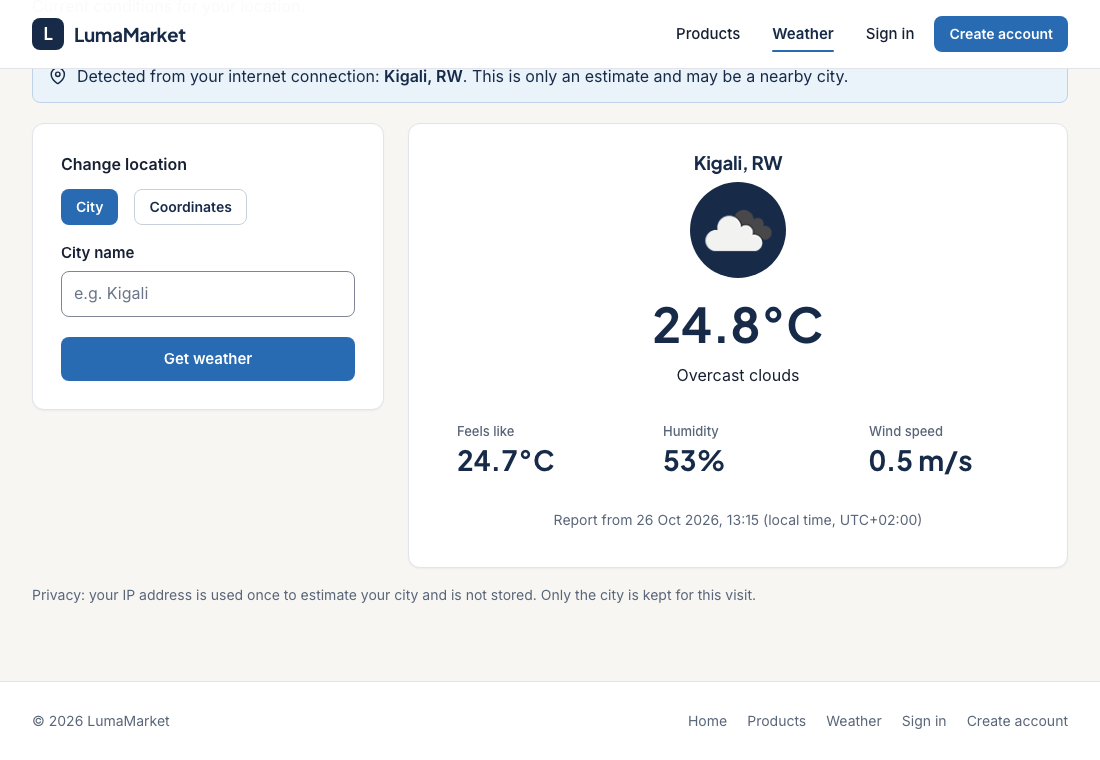
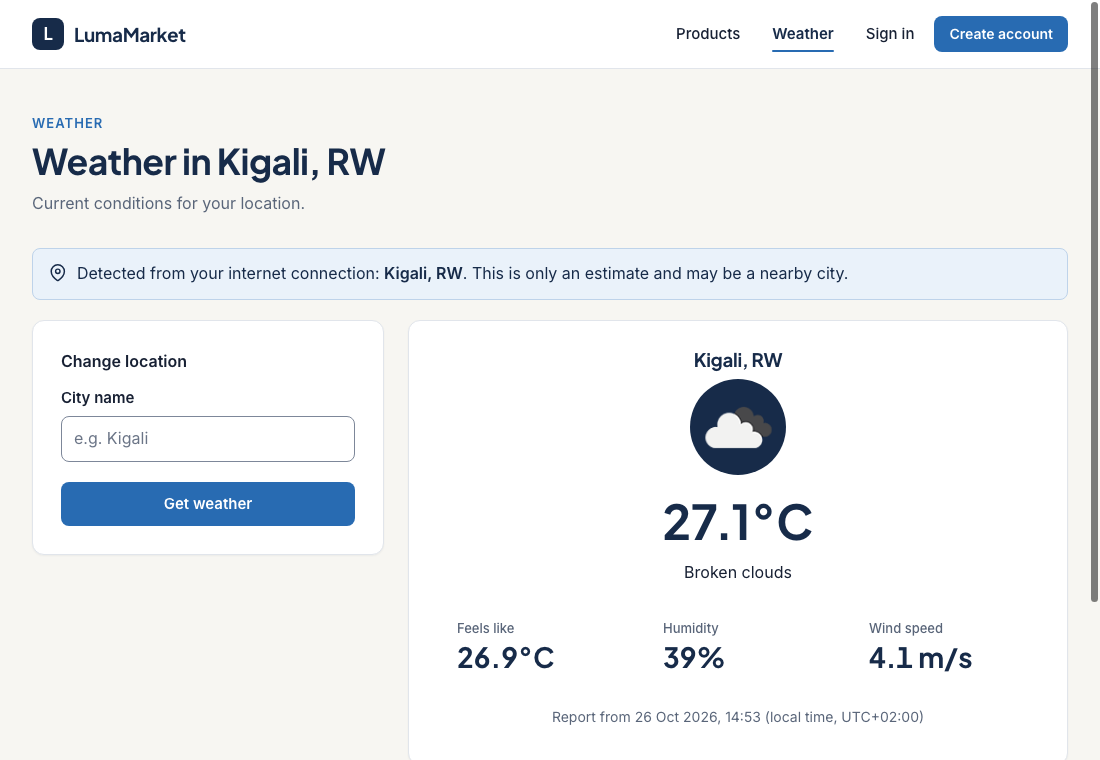
Weather: not-found message no longer suggests coordinates; refresh screenshots

diff --git a/weather.py b/weather.py
@@ -58,7 +58,7 @@ def request_weather(params):
             return json.load(response)
     except urllib.error.HTTPError as error:
         if error.code == 404:
-            raise WeatherError("not_found", "We could not find that place. Check the spelling or try coordinates.") from None
+            raise WeatherError("not_found", "We could not find that place. Check the spelling and try again.") from None
         if error.code == 429:
             raise WeatherError("service", "The weather service is busy right now. Please try again in a minute.") from None
         print(f"OpenWeather returned HTTP {error.code}")
